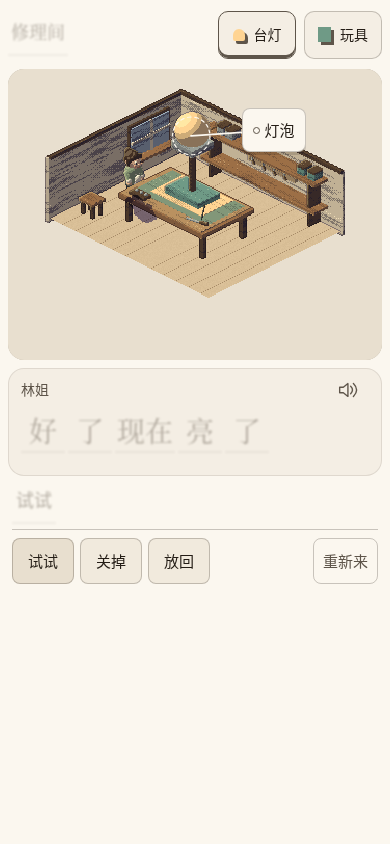
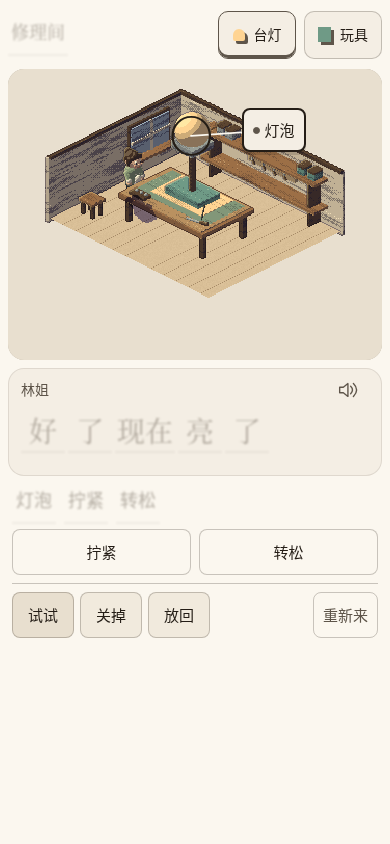
Use neutral feedback before either powered lamp turn

diff --git a/src/features/repairs/rules.test.ts b/src/features/repairs/rules.test.ts
@@ -1,6 +1,6 @@
 import { describe, expect, it } from 'vitest';
 import { canReturn, currentBench, gifts, initialState, recovered, reduce, validate, type Action, type State } from './rules';
-import { content, contentSchema, lines, words } from './content';
+import { content, contentSchema, lineFor, lines, words } from './content';
 
 const act = (state: State, ...actions: Action[]) => actions.reduce((current, action) => reduce(current, action, 1), state);
 const fixedLamp = () => act(initialState(), { type: 'select', job: 'lamp', part: 'bulb' }, { type: 'turn', job: 'lamp', direction: 'tighten' }, { type: 'test', job: 'lamp' });
@@ -23,6 +23,16 @@ describe('repair workshop physical rules', () => {
     const fixed = act(blocked, { type: 'power-off', job: 'lamp' }, { type: 'turn', job: 'lamp', direction: 'tighten' });
     expect(canReturn(currentBench(fixed))).toBe(false);
     expect(canReturn(currentBench(act(fixed, { type: 'test', job: 'lamp' })))).toBe(true);
+  });
+  for (const direction of ['tighten', 'loosen'] as const) it(`gives neutral power-off feedback before a powered ${direction}`, () => {
+    const before = direction === 'tighten' ? act(initialState(), { type: 'select', job: 'lamp', part: 'bulb' }, { type: 'test', job: 'lamp' }) : fixedLamp();
+    const action: Action = { type: 'turn', job: 'lamp', direction };
+    const after = reduce(before, action, 1);
+    expect(after.feedback).toBe('power-first');
+    expect(lineFor(after.feedback).tokens.map(word => word.hanzi).join('')).toBe('先关掉');
+    expect(currentBench(after)).toEqual(currentBench(before));
+    expect(recovered(before, action, after)).toEqual([]);
+    expect(validate(after)).toEqual(after);
   });
   it('invalidates the successful lamp test when switching off or loosening', () => {
     const off = act(fixedLamp(), { type: 'power-off', job: 'lamp' });

diff --git a/e2e/repairs.spec.ts b/e2e/repairs.spec.ts
@@ -20,7 +20,7 @@ test('isolated repair journey preserves physical causes, reversible choices and 
   await expect(page.getByTestId('repair-scene')).toHaveAttribute('data-test', 'unstable');
   await part(page, 'bulb');
   await action(page, '拧紧');
-  await expect(page.getByTestId('repair-feedback')).toHaveText('先关掉再拧紧');
+  await expect(page.getByTestId('repair-feedback')).toHaveText('先关掉');
   expect((await read(page)).recoveries).toEqual([]);
   await main(page, '关掉');
   await action(page, '拧紧');
@@ -39,6 +39,15 @@ test('isolated repair journey preserves physical causes, reversible choices and 
   await switchJob(page, 'lamp');
   await main(page, '试试');
   await expect(page.getByTestId('repair-scene')).toHaveAttribute('data-test', 'steady');
+  await part(page, 'bulb');
+  const recoveredBeforeLoosening = (await read(page)).recoveries.length;
+  await action(page, '转松');
+  await expect(page.getByTestId('repair-feedback')).toHaveText('先关掉');
+  expect((await read(page)).plays.at(-1)).toBe('repairs.power-first');
+  expect((await read(page)).state.jobs.lamp).toMatchObject({ fitting: 'seated', test: 'steady' });
+  expect((await read(page)).recoveries).toHaveLength(recoveredBeforeLoosening);
+  await main(page, '试试');
+  await expect(page.getByTestId('repair-feedback')).toHaveText('好了现在亮了');
   await page.screenshot({ path: `evidence/0069/${info.project.name}-lamp-steady.png`, fullPage: true });
   await main(page, '放回');
   expect((await read(page)).state.completed).toEqual(['lamp']);

diff --git a/evidence/0069/author-content.py b/evidence/0069/author-content.py
@@ -21,7 +21,7 @@ specs=[
 ('lamp-intro','lamp','能亮，但是一直闪。',['能','亮','但是','一直','闪']),
 ('lamp-unstable','lamp','还是不稳。',['还是','不','稳']),
 ('lamp-steady','lamp','好了，现在亮得稳了。',['好','了','现在','亮','稳','了']),
-('power-first','lamp','先关掉，再拧紧。',['先','关掉','再','拧紧']),
+('power-first','lamp','先关掉。',['先','关掉']),
 ('lamp-tight','lamp','灯泡拧紧了。再试试。',['灯泡','拧紧','了','再','试试']),
 ('lamp-loose','lamp','灯泡松了。',['灯泡','松','了']),
 ('toy-intro','toy','这个玩具不动了。',['这个','玩具','不','动','了']),

diff --git a/evidence/0069/progress.md b/evidence/0069/progress.md
@@ -9,9 +9,9 @@
   - [x] Smallest safe decomposition. One feature writer owns coupled rules, content, scene and UI. Parent manages separate read-only reviewers. No extra writers.
 - [x] Delegate code-writing. This worker is the sole parent-delegated implementation owner. Feature step 4 explicitly permits a subagent forbidden to spawn to own the diff with review separation.
 - [x] Verify on the matching surface. Isolated desktop, 390px and 320px browser journeys pass. Integrated journey and audio are separately pending.
-- [x] Rebase into small, ordered commits. Checked rules/content, switching, truthful feedback and UI are separate commits. Rebase onto current main remains a central integration step.
+- [x] Rebase into small, ordered commits. Checked rules/content, switching, truthful feedback and UI are separate commits. Repair-only rebase onto main 5c90ba4 completed and was fully reverified.
 - [ ] If the design is contested, interrogate before shipping. No unresolved contested choice in the supplied synthesis.
-- [ ] Run Opening a PR. Central lead owns connector operations and asks when ready.
+- [x] Run Opening a PR. Central lead opened [draft PR 22](https://github.com/CallumHemsley/junyan/pull/22). Central lead owns review and landing.
 
 Applied skills read locally from PSTACK include poteto-mode, feature playbook, how, architect, Model the Domain, Prove It Works, Sequence Work into Verifiable Units, deslop and control-ui. Model the Domain chose explicit object state. Prove It Works requires actual browser evidence. Sequence Work into Verifiable Units separates checked rules from checked UI. Native tools replace Cursor-specific tool names. User-selected model and connector override skill defaults. The separate show-me visual skill is unavailable. Show-me-your-work exists and was read during this run; its canonical six-column TSV trail is evidence/0069/decision-trail.tsv. The earlier four-column decisions.tsv is retained as historical evidence. Parent owns independent trail review because this writer may not spawn.
 
@@ -42,3 +42,13 @@ Remaining gates are final independent review, exact offline audio generation/lis
 Replayed only the four repair commits after original base `37b5d22` onto current main `5c90ba4b7421755fee3dd5d12e777f70dd34f226`. Original published feature head was `e67b2ad4aea28eed218acbf658f02f8b57989220`, verified equal to the remote feature branch before rewriting. The only conflict was this ticket's review/merge wording. Main's stronger central verification requirement was preserved. No shared files changed. Rebased source head was `06e34bffa7682027efbb89d2915491e3c9d9a9b8`.
 
 The complete required check sequence ran once on that rebased source. `pnpm test` passed 12 files and 181 tests, including main's additional ward regression. `pnpm build` passed. Isolated repair browser tests passed all 9 checks, with 3 explicit integrated/audio skips. Baseline waiter browser tests passed all 6 desktop/phone checks. Selected screenshots were refreshed and inspected on that source. Audio remains blocked with the same 64 missing exact clips; this rebase does not establish integrated feature or voice completion.
+
+## Final review correction
+
+Independent final UI review confirmed the browser journeys, rules, 44px targets, 28px spoken text and inspected desktop/390px/320px layouts with clean console. It found one concrete wording defect. Both powered turn directions shared “先关掉，再拧紧。”, which contradicted an attempt to loosen the fitting. The content now says neutral “先关掉。” for either direction. Mechanics are unchanged.
+
+The exact segmented source, authoring script and pending/audio-plan manifests agree. The new Serena line content-address is `line-997547a133ff6c8c0c7ad6aa692fb658f213b26886aafadb7d178a948674a19e.wav`. Required clip count remains 64 missing, with no generated or substituted audio.
+
+`pnpm exec vitest run src/features/repairs/rules.test.ts` passed all 13 tests, including both powered-direction regressions. `pnpm build` passed. `pnpm exec playwright test --config evidence/0069/playwright.config.ts --grep 'isolated repair journey'` passed all 3 desktop/390px/320px journeys. They assert neutral visible feedback, matching playback callback, unchanged physical state/recovery, and restoration of steady test feedback. The updated selected-lamp screenshots were visually inspected. The baseline restaurant journey was not repeated for this content-only correction; its 6-check post-rebase pass remains recorded above.
+
+Draft PR is https://github.com/CallumHemsley/junyan/pull/22. Independent review recheck of this focused fix remains pending. Audio and shared route/save/offline integration still block completion.

diff --git a/docs/plans/neighbourhood-repairs.md b/docs/plans/neighbourhood-repairs.md
@@ -14,7 +14,7 @@ All operations use DOM targets at least 44px. Select a visible part, then choose
 
 ## Mandarin and inference
 
-Bounded action vocabulary includes 灯泡, 电池, 线, 拧紧, 转松, 接上, 拔下, 换, 打开, 盖上, 试试, 先, 再, 好了 and 不动. “先关掉，再拧紧。” follows an attempted powered manipulation. “线接上了。” follows connecting the lead. “换上新电池了。” follows replacing the cell. “还是不动。再打开。” follows a failed closed-cover test. Opening dialogue stays neutral because either part may already be repaired. Feedback names visible outcomes. It does not grade the player. All lines and words are segmented JSON and validated against feature-local schemas permitting dotted IDs and nested audio paths. Pinyin and gloss stay in lookup data. Existing genuinely identical canonical words are reused.
+Bounded action vocabulary includes 灯泡, 电池, 线, 拧紧, 转松, 接上, 拔下, 换, 打开, 盖上, 试试, 先, 再, 好了 and 不动. “先关掉。” follows either attempted powered turn direction. “线接上了。” follows connecting the lead. “换上新电池了。” follows replacing the cell. “还是不动。再打开。” follows a failed closed-cover test. Opening dialogue stays neutral because either part may already be repaired. Feedback names visible outcomes. It does not grade the player. All lines and words are segmented JSON and validated against feature-local schemas permitting dotted IDs and nested audio paths. Pinyin and gloss stay in lookup data. Existing genuinely identical canonical words are reused.
 
 ## Architecture and persistence
 

diff --git a/docs/tickets/0069-repair-workshop.md b/docs/tickets/0069-repair-workshop.md
@@ -44,3 +44,7 @@ Built both reversible repairs, free switching with both partial states retained,
 Full rules suite passed 180 tests. Build passed. Isolated browser checks passed 9 tests on desktop, 390px and 320px phones. Existing hospital/restaurant/change/journal/day/save checks passed all 6 desktop/phone tests. See [verification evidence](../../evidence/0069/progress.md). Voice inventory currently fails with 64 missing required clips. Integrated route, feature IndexedDB reload/migration, word-card/journal and offline voice checks remain pending. Final independent UI review is parent-owned. Do not mark done until those gates close.
 
 After rebase onto main `5c90ba4`, the full required sequence passed again. Rules now pass 181 tests because main added a ward regression. Build, 9 isolated repair checks and 6 existing desktop/phone journey/save checks passed. Rebase removed inherited coordination commits and preserved central review wording.
+
+## Independent final review
+
+Central lead opened [draft PR 22](https://github.com/CallumHemsley/junyan/pull/22). Independent final reviewer confirmed the isolated browser journeys, rules, 44px targets, 28px text and desktop/390px/320px layouts with clean console. Reviewer found that powered loosening incorrectly requested tightening. The focused correction changes the shared feedback to neutral “先关掉。” and tests both powered directions. Review recheck remains pending. Audio and integrated route/save/offline checks still block completion.
